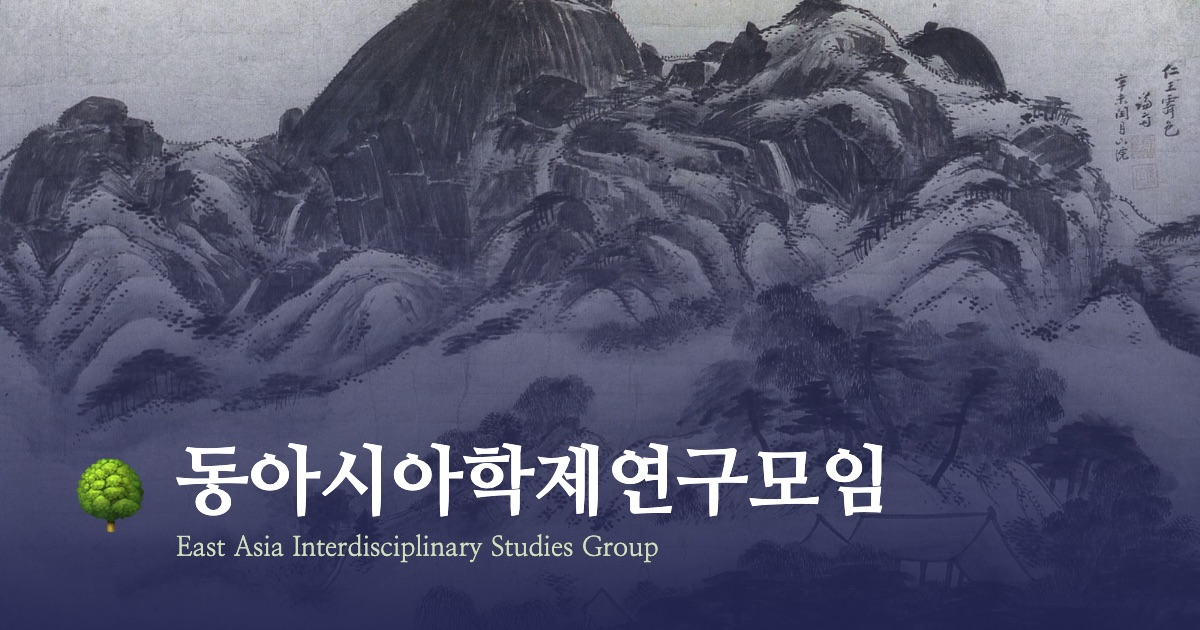
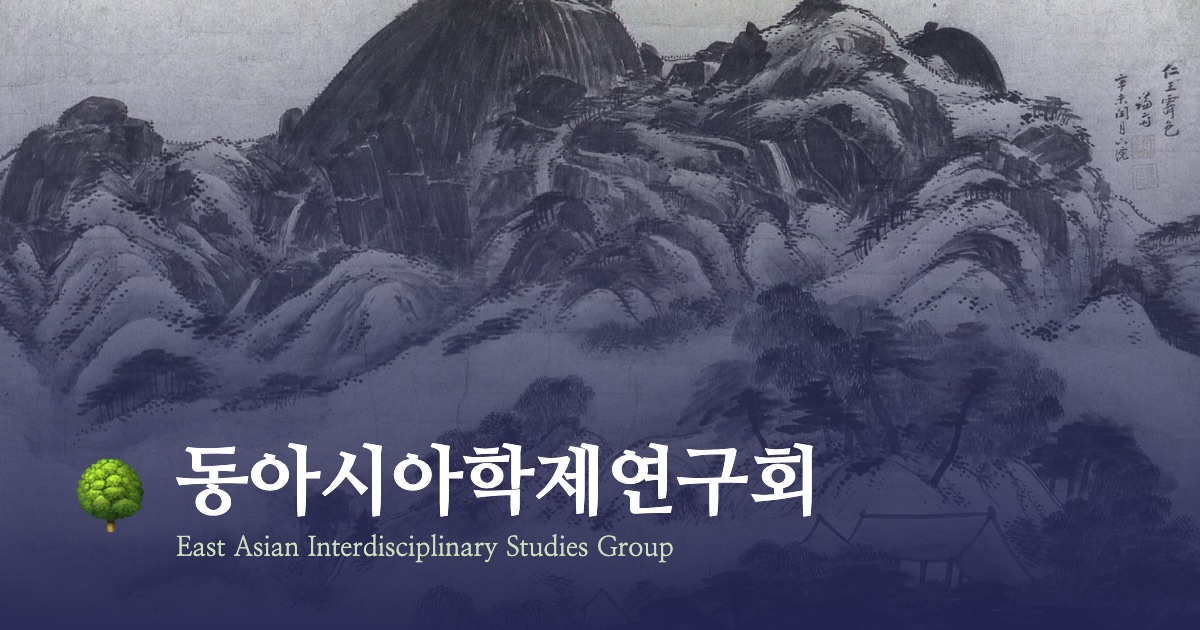
Follow the group's introduction: 동아시아학제연구회, KFAS rather than 문우림
The introduction names the group 동아시아학제연구회 and describes it as
formed among Korea Foundation for Advanced Studies scholarship
recipients. The site had been built on a narrower premise -- that
members met through 문우림 specifically -- which appeared in the title,
the people page, a home sidebar block and the footer link.

Renamed throughout, including the link-preview card, which had the old
name rendered into the image. English follows the introduction's first
paragraph, "East Asian Interdisciplinary Studies Group"; its third
paragraph says "Research Group" instead, which is left aside as a
variant rather than a second name.

The 문우림 sidebar block on the home page is gone rather than rewritten:
the introduction now states the KFAS connection in the main column, and
a marginal note repeating it would be the third telling on one page. The
foundation is linked from the footer.

The tree mark stays. It came from 문우림 (文友林) but reads as a tree.

Changed region(s): [[0.2158, 0.8444, 0.555, 0.9048], [0.6167, 0.6937, 0.74, 0.8143]]

diff --git a/people.html b/people.html
@@ -65,7 +65,7 @@ permalink: /people/
 <aside class="sidebar">
   <div class="marginalia">
     <h3 class="aside-label"><span class="i18n-ko">구성원</span><span class="i18n-en">Members</span></h3>
-    <p class="i18n-ko">{{ site.title }}은 {{ site.parent_name }}({{ site.parent_hanja }})을 통해 만난 학부생 및 대학원생들로 구성되어 있습니다.</p>
-    <p class="i18n-en">{{ site.title }} is made up of undergraduate and graduate students who met through {{ site.parent_name }} ({{ site.parent_name_en }}).</p>
+    <p class="i18n-ko">{{ site.title }}는 {{ site.foundation_name }} 장학생들을 중심으로, 다양한 분야를 전공하는 학부생 및 대학원생들로 구성되어 있습니다.</p>
+    <p class="i18n-en">The {{ site.tagline }} is made up of undergraduate and graduate students from a wide range of fields, supported by the {{ site.foundation_name_en }}.</p>
   </div>
 </aside>

diff --git a/index.html b/index.html
@@ -64,22 +64,3 @@ layout: default
   {% endif %}
 </main>
 
-<aside class="sidebar">
-  <div class="marginalia">
-    <h3 class="aside-label">
-      <span class="i18n-ko">{{ site.parent_name }}과의 인연</span>
-      <span class="i18n-en">Connection to {{ site.parent_name_en }}</span>
-    </h3>
-    <a class="lineage-link" href="{{ site.parent_url }}" target="_blank" rel="noopener">
-      🌳 {{ site.parent_name }} ({{ site.parent_hanja }}<span class="i18n-en">, {{ site.parent_name_en }}</span>)
-    </a>
-    <p class="i18n-ko">{{ site.parent_blurb }}</p>
-    <p class="i18n-en">{{ site.parent_blurb_en }}</p>
-  </div>
-
-  {%- comment -%}
-    An archive-by-year block used to sit here. With a single post it read as
-    "보관함 / 2026 (1)" -- a count with nothing to count. Worth restoring once
-    there are enough posts for a year to be a useful way to find one.
-  {%- endcomment -%}
-</aside>

diff --git a/_includes/footer.html b/_includes/footer.html
@@ -1,8 +1,8 @@
 <footer class="site-footer">
   <nav class="footer-links">
-    <a href="{{ site.parent_url }}" target="_blank" rel="noopener">
-      <span class="i18n-ko">{{ site.parent_name }} ({{ site.parent_hanja }})</span>
-      <span class="i18n-en">{{ site.parent_name_en }}</span>
+    <a href="{{ site.foundation_url }}" target="_blank" rel="noopener">
+      <span class="i18n-ko">{{ site.foundation_name }}</span>
+      <span class="i18n-en">{{ site.foundation_name_en }}</span>
     </a>
     <a href="{{ site.repo_url }}" target="_blank" rel="noopener">GitHub</a>
     <a href="{{ '/feed.xml' | relative_url }}">RSS</a>

diff --git a/tools/make_images.py b/tools/make_images.py
@@ -66,8 +66,8 @@ OG_HTML = """<!doctype html><meta charset="utf-8">
   <div class="veil"><div class="inner">
     <div class="mark">🌳</div>
     <div>
-      <h1>동아시아학제연구모임</h1>
-      <p>East Asia Interdisciplinary Studies Group</p>
+      <h1>동아시아학제연구회</h1>
+      <p>East Asian Interdisciplinary Studies Group</p>
     </div>
   </div></div>
 </div>

diff --git a/README.md b/README.md
@@ -1,9 +1,10 @@
-# 동아시아학제연구모임 (East Asia Interdisciplinary Studies Group)
+# 동아시아학제연구회 (East Asian Interdisciplinary Studies Group)
 
-Group site, built with Jekyll. Palette (indigo-navy, forest green)
-and the tree mark nod to
-[문우림 (文友林, Forest of Learning)](https://cvt.kfas.or.kr/intro/type1.php),
-the KFAS program this group's members met through. Typefaces are
+Group site, built with Jekyll. The group is made up of scholarship
+recipients of the
+[Korea Foundation for Advanced Studies](https://www.kfas.or.kr) across a
+range of disciplines; the palette (indigo-navy, forest green) and the
+tree mark follow from that. Typefaces are
 Pretendard (body/UI) and Nanum Myeongjo (headings). The banner image
 is a placeholder (Jeong Seon's public-domain 인왕제색도) — swap it for
 a real photo whenever there is one, via `assets/images/inwang-jesaekdo.jpg`

diff --git a/_posts/2025-09-22-first-seminar.md b/_posts/2025-09-22-first-seminar.md
@@ -14,7 +14,7 @@ content_en: |
   Sessions are recorded on the Seminar page.
 ---
 
-동아시아학제연구모임의 첫 세미나를 열었습니다.
+동아시아학제연구회의 첫 세미나를 열었습니다.
 
 첫 대주제 «동아시아와 타자»의 시작으로, 「총칭문과 혐오의 인지과학」을
 다루었습니다.

diff --git a/_posts/2026-08-11-welcome.md b/_posts/2026-08-11-welcome.md
@@ -11,7 +11,7 @@ content_en: |
   will follow here.
 ---
 
-동아시아학제연구모임의 웹사이트를 개설했습니다.
+동아시아학제연구회의 웹사이트를 개설했습니다.
 
 구성원 소개와 그동안의 발제 기록을 이 곳에 모았습니다. 앞으로의
 소식도 여기에 올립니다.
